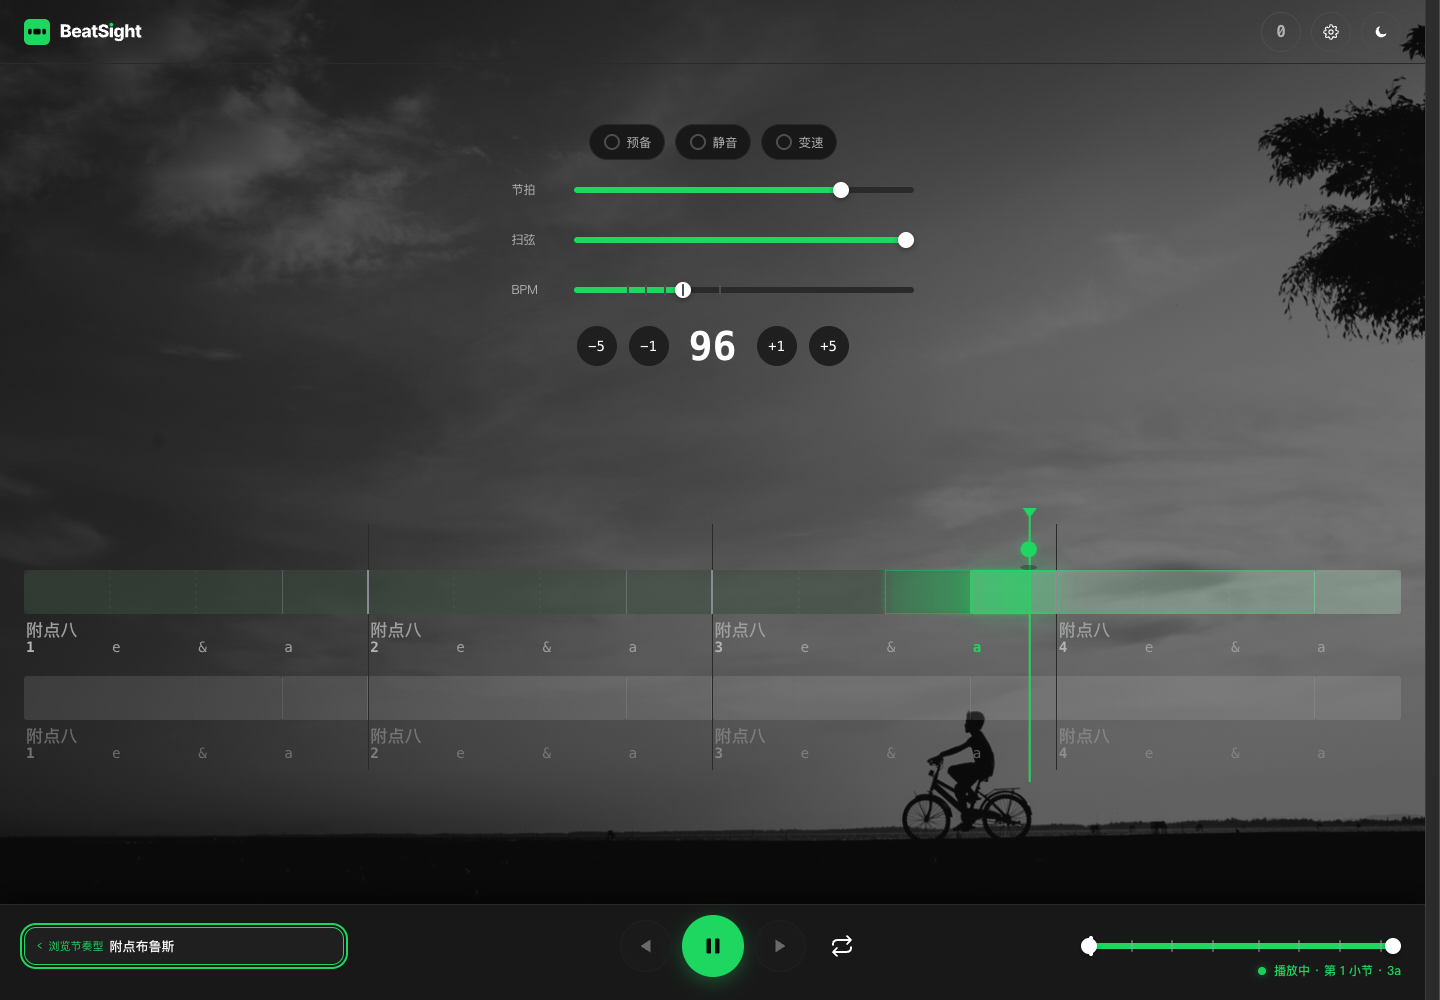
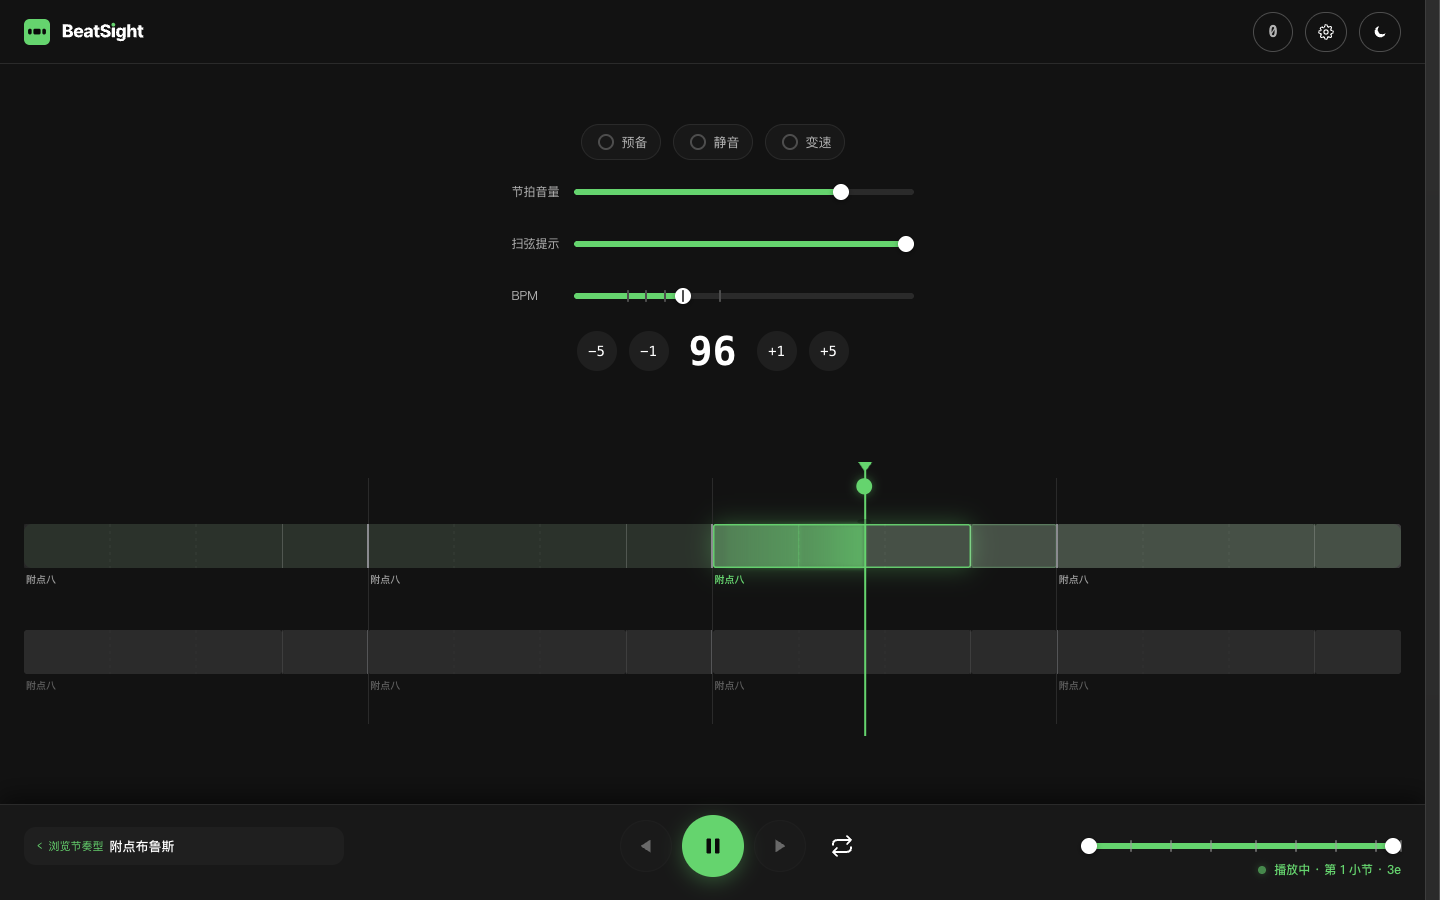
docs: v3.58.9 更新 README 当前版本截图
根因：README 的主界面、曲式和手机截图仍展示已移除的出厂壁纸及旧控件文案，与当前版本首次使用体验不一致。

修法：以 v3.58.9 实际页面重截主界面深浅色、曲式与手机图，更新四张图片的缓存标记；手机图保持 780×1688。

取舍：只更新 README 资源与版本记录，不改变应用功能或数据；另外两张未重截的图维持原引用。

自验：四图逐张读取复核；check-all 22/22 全绿；FULL_SCAN 9096 PASS / 0 FAIL；浏览器冒烟 659 项通过；行覆盖率 97.5%；ESLint/tsc 0 错误。

diff --git a/index.html b/index.html
@@ -5166,7 +5166,7 @@ body[data-theme="obs"] .cell.rest{background:var(--rest-fill)}
    发版规则（v1.6.4 起）：每次发版都 bump 这一行，不分功能版与工程版。此前 v1.6.1~v1.6.4 连发
    四版都没动它，线上徽章长期停在 v1.6.0——版本号是用户判断「更新到底生效没有」的唯一凭据，
    跳过它就等于让这个凭据说谎。改这一行即可，两处显示自动跟着走 */
-const VERSION = "3.58.8";
+const VERSION = "3.58.9";
 const TPB = 48;                                        // ticks per beat（PPQN）
 /* 具名时值常量（v1.3.0）：12/24/36 在本文件里既当 tick 时值又当 CSS 像素值出现过几百次，
    靠裸数字读不出语义（`s.t % 12` 是"能否画十六分刻度"、`s.t < 24` 是"是否算短音符"）。

diff --git a/README.md b/README.md
@@ -42,8 +42,8 @@ BeatSight 的做法是把节奏**画出来**：每个音符是一个块，块宽
     <td width="50%"><b>曲式模式</b> ·《在他乡》整首连播中</td>
   </tr>
   <tr>
-    <td><picture><source media="(prefers-color-scheme: dark)" srcset="docs/assets/shot-main-dark.png?v=20261010"><img src="docs/assets/shot-main-light.png?v=20261010" alt="主界面：时值可视化网格，播放中的当前拍高亮，顶部有弹跳球落点提示"></picture></td>
-    <td><img src="docs/assets/shot-arrange-dark.png?v=20261010" alt="曲式模式：歌曲小节上的滚动窗口，扫弦方向箭头、和弦标记与歌词轨同屏"></td>
+    <td><picture><source media="(prefers-color-scheme: dark)" srcset="docs/assets/shot-main-dark.png?v=20261107"><img src="docs/assets/shot-main-light.png?v=20261107" alt="主界面：时值可视化网格，播放中的当前拍高亮，顶部有弹跳球落点提示"></picture></td>
+    <td><img src="docs/assets/shot-arrange-dark.png?v=20261107" alt="曲式模式：歌曲小节上的滚动窗口，扫弦方向箭头、和弦标记与歌词轨同屏"></td>
   </tr>
   <tr>
     <td><b>曲式编排</b> · 歌曲地图 + 段落卡片 + 歌词对齐</td>
@@ -56,7 +56,7 @@ BeatSight 的做法是把节奏**画出来**：每个音符是一个块，块宽
 </table>
 
 <p align="center">
-  <img src="docs/assets/shot-mobile-dark.png?v=20261010" width="300" alt="手机端：窄屏下时值网格自动分片，扫弦箭头、歌词与当前拍高亮清晰可见"><br>
+  <img src="docs/assets/shot-mobile-dark.png?v=20261107" width="300" alt="手机端：窄屏下时值网格自动分片，扫弦箭头、歌词与当前拍高亮清晰可见"><br>
   <sub>手机浏览器直开，窄屏自动分片。截图均为真实运行中的页面（应用内「经典」主题）。</sub>
 </p>
 
@@ -73,7 +73,7 @@ BeatSight 的做法是把节奏**画出来**：每个音符是一个块，块宽
 
 ## 功能一览
 
-当前 `v3.58.8` · [变更记录](CHANGELOG.md) · 完整操作见应用内「使用方法」。
+当前 `v3.58.9` · [变更记录](CHANGELOG.md) · 完整操作见应用内「使用方法」。
 
 - **时值可视化**：音符块宽度即时值，弹跳球预告落点；支持分页、连续滚动和窄屏分片。
 - **节奏库与编辑器**：内置节奏、拍数与细分组合、自定义编辑；支持扫弦、逐弦拨弦、休止和重拍设置。

diff --git a/CHANGELOG.md b/CHANGELOG.md
@@ -15,6 +15,14 @@
 
 ---
 
+## v3.58.9 · 更新 README 主界面、曲式与手机截图（2026-11-07）
+
+**文档资源调整**：以当前版本重新截取主界面深浅色、曲式模式和手机图，移除旧截图中的出厂壁纸与过期文案；手机图保持 780×1688，README 同步更新四张图片的缓存标记。应用功能与数据不变。
+
+**自验**：四张图片均已读取复核；`check-all` **22/22** 全绿，FULL_SCAN 主套件 **9096 PASS / 0 FAIL**，真实浏览器冒烟 **659 项断言**通过，行覆盖率 **97.5%**，ESLint / tsc 均 **0 错误**。
+
+---
+
 ## v3.58.8 · README 精简并补充弹唱定位（2026-11-07）
 
 **文档调整**：README 补充吉他练习与弹唱定位，统一「每个音符」措辞；「功能一览」压缩为 5 条，删除重复的文档目录与旋律谱示例图，保留开发文档入口，并更新钩子安装说明。应用功能与数据不变。
